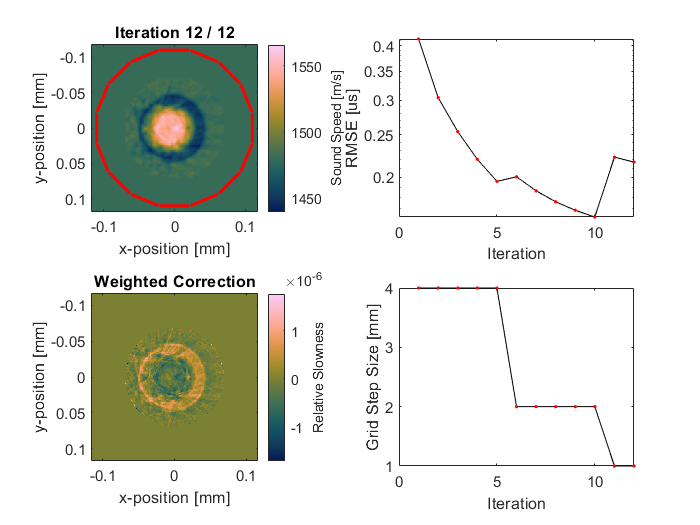
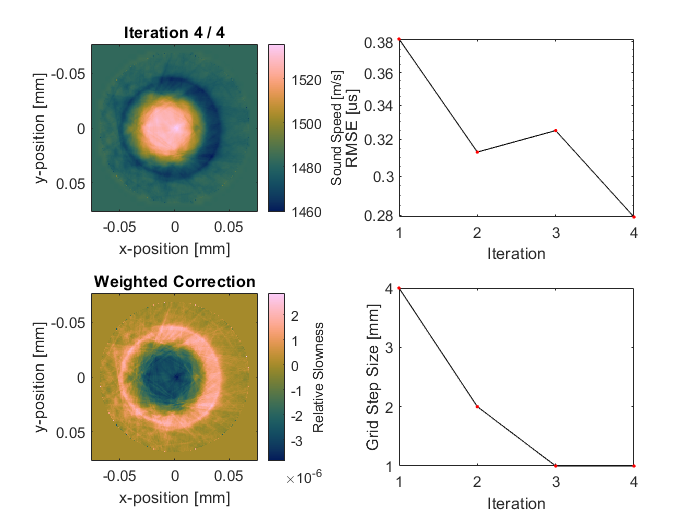
changing example images

diff --git a/example/sart_example.m b/example/sart_example.m
@@ -17,7 +17,7 @@ sart        = SartExperiment(element_positions, delta_tof, temperature);
 sart.plotSetup;
 
 % Perform reconstruction
-ups        = [1, 2, 3, 4]; % upsampling factors for each iteration
+ups        = [1, 2, 4, 4]; % upsampling factors for each iteration
 Nit        = length(ups);  % number of iterations
 dx0        = 4e-3;         % step size for iteration 1 [m]
 init_c_val = sart.c_water; % sound speed value for homogeneous initial estimate [m/s]
